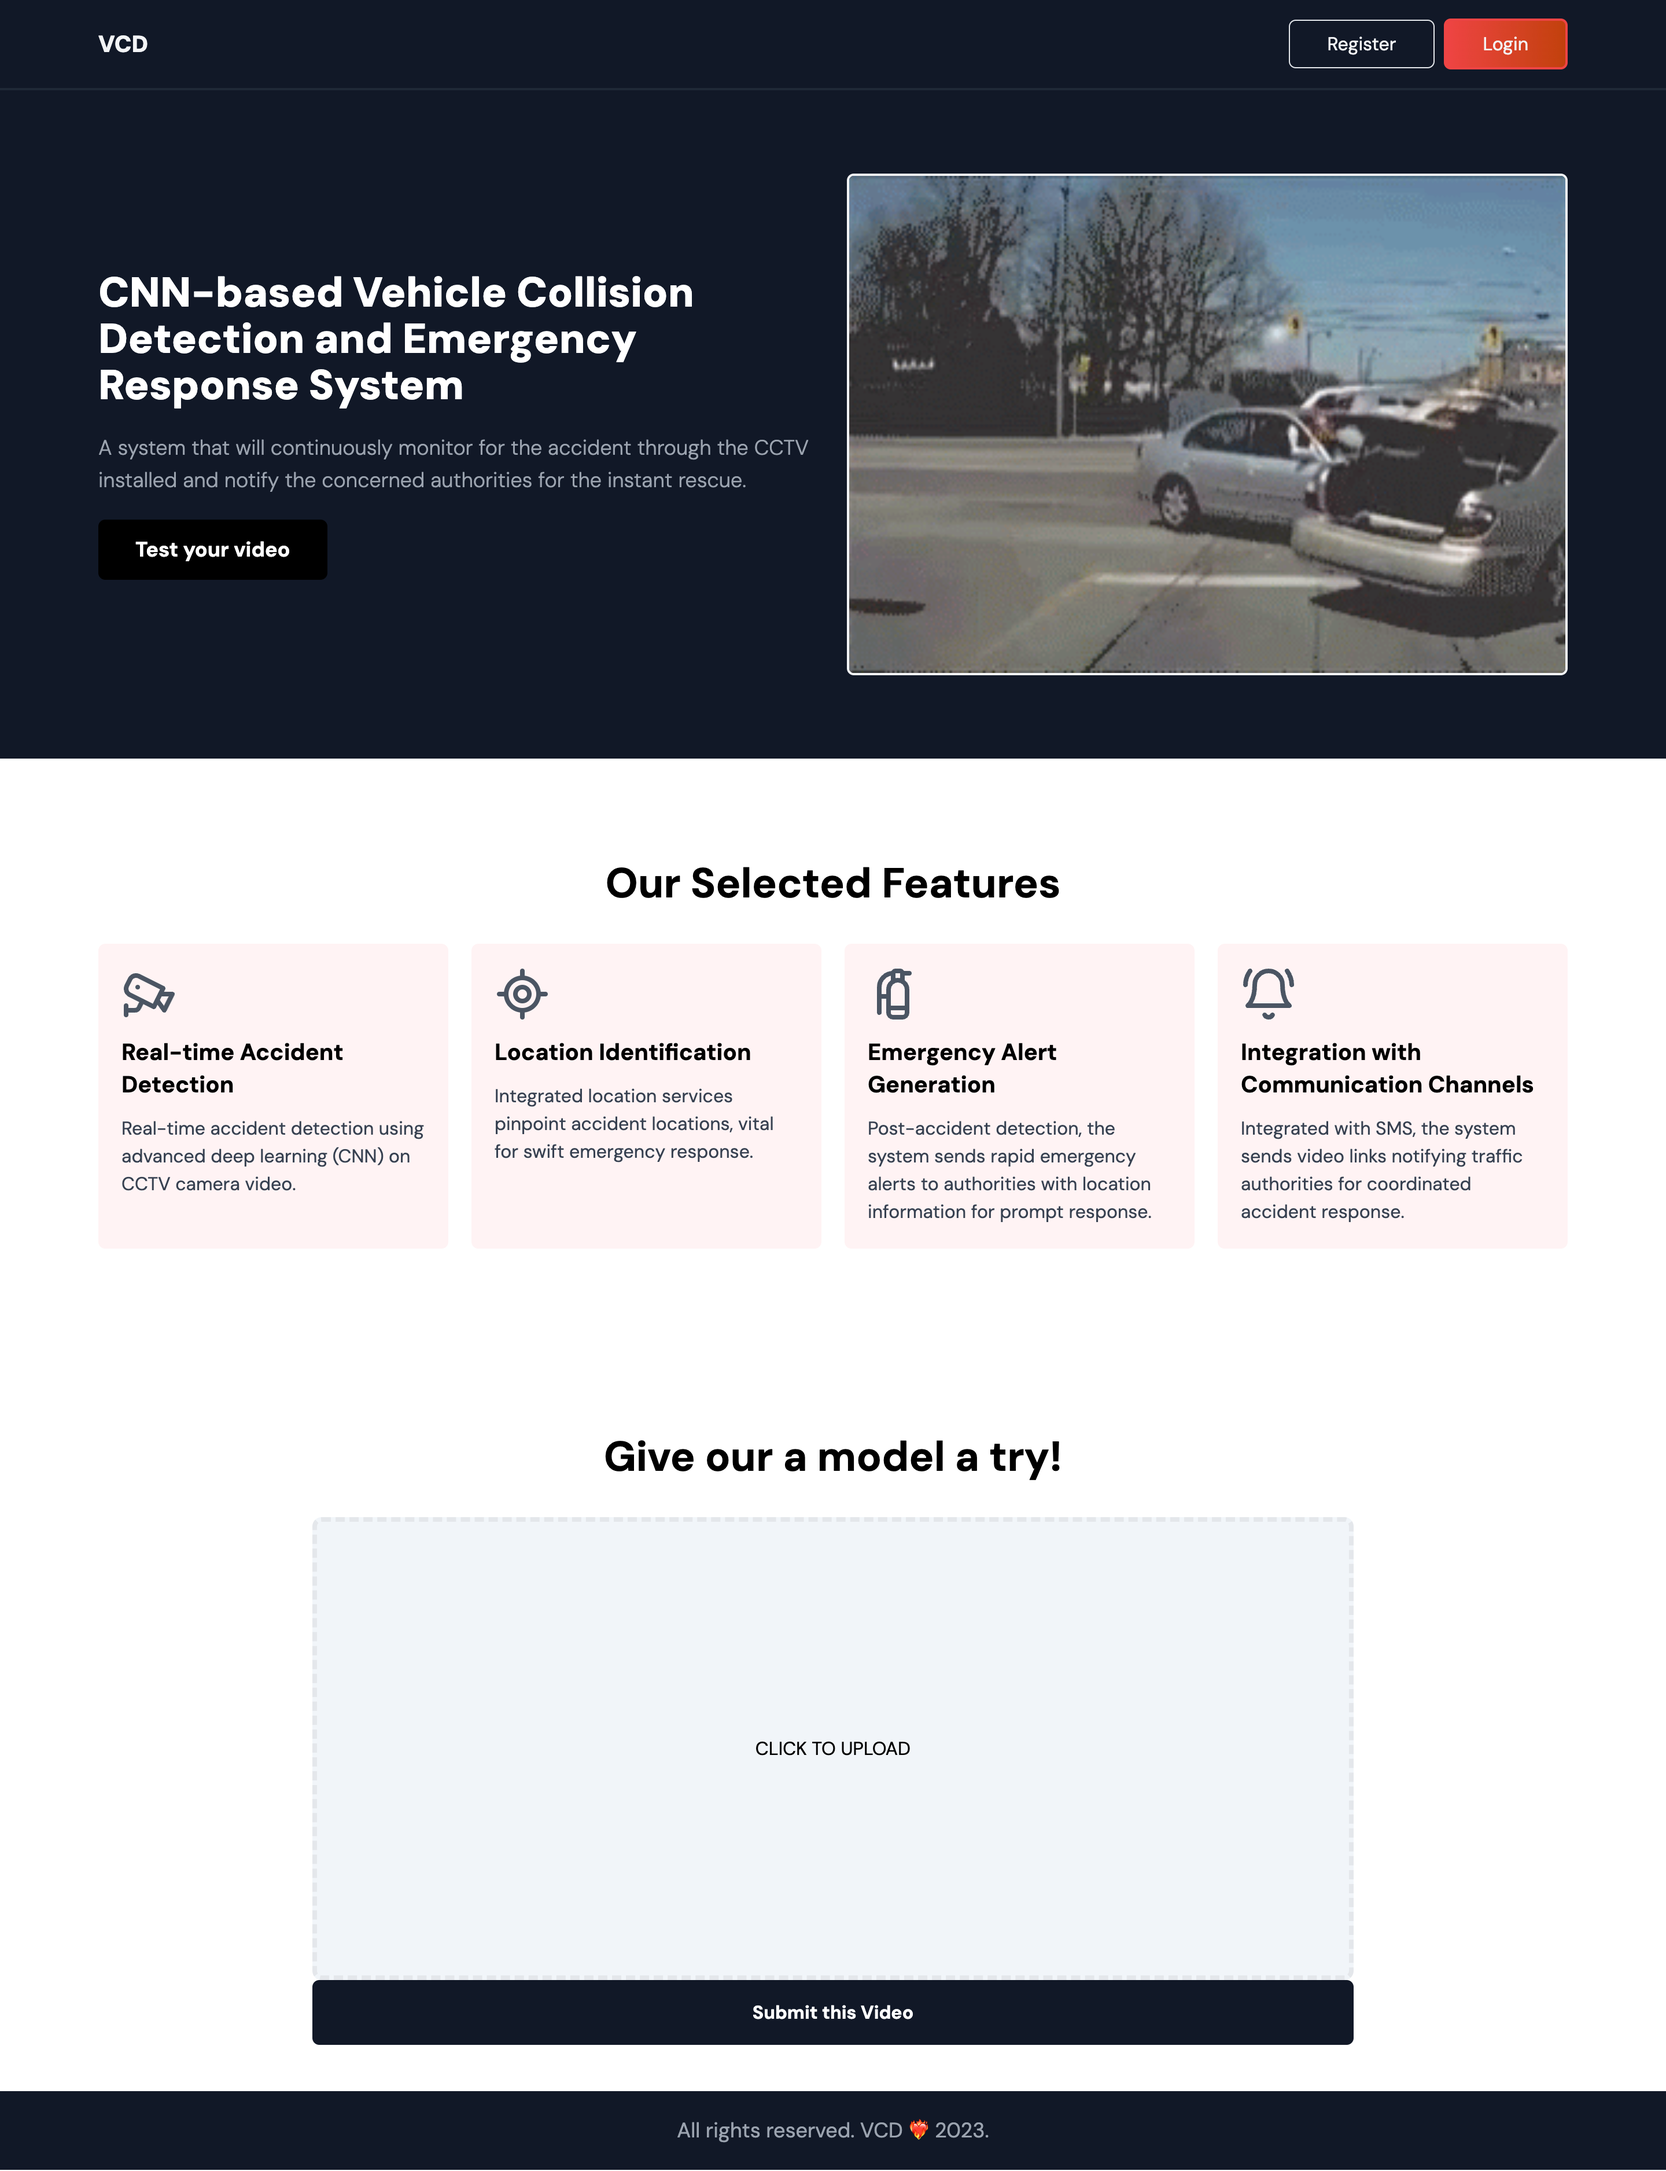
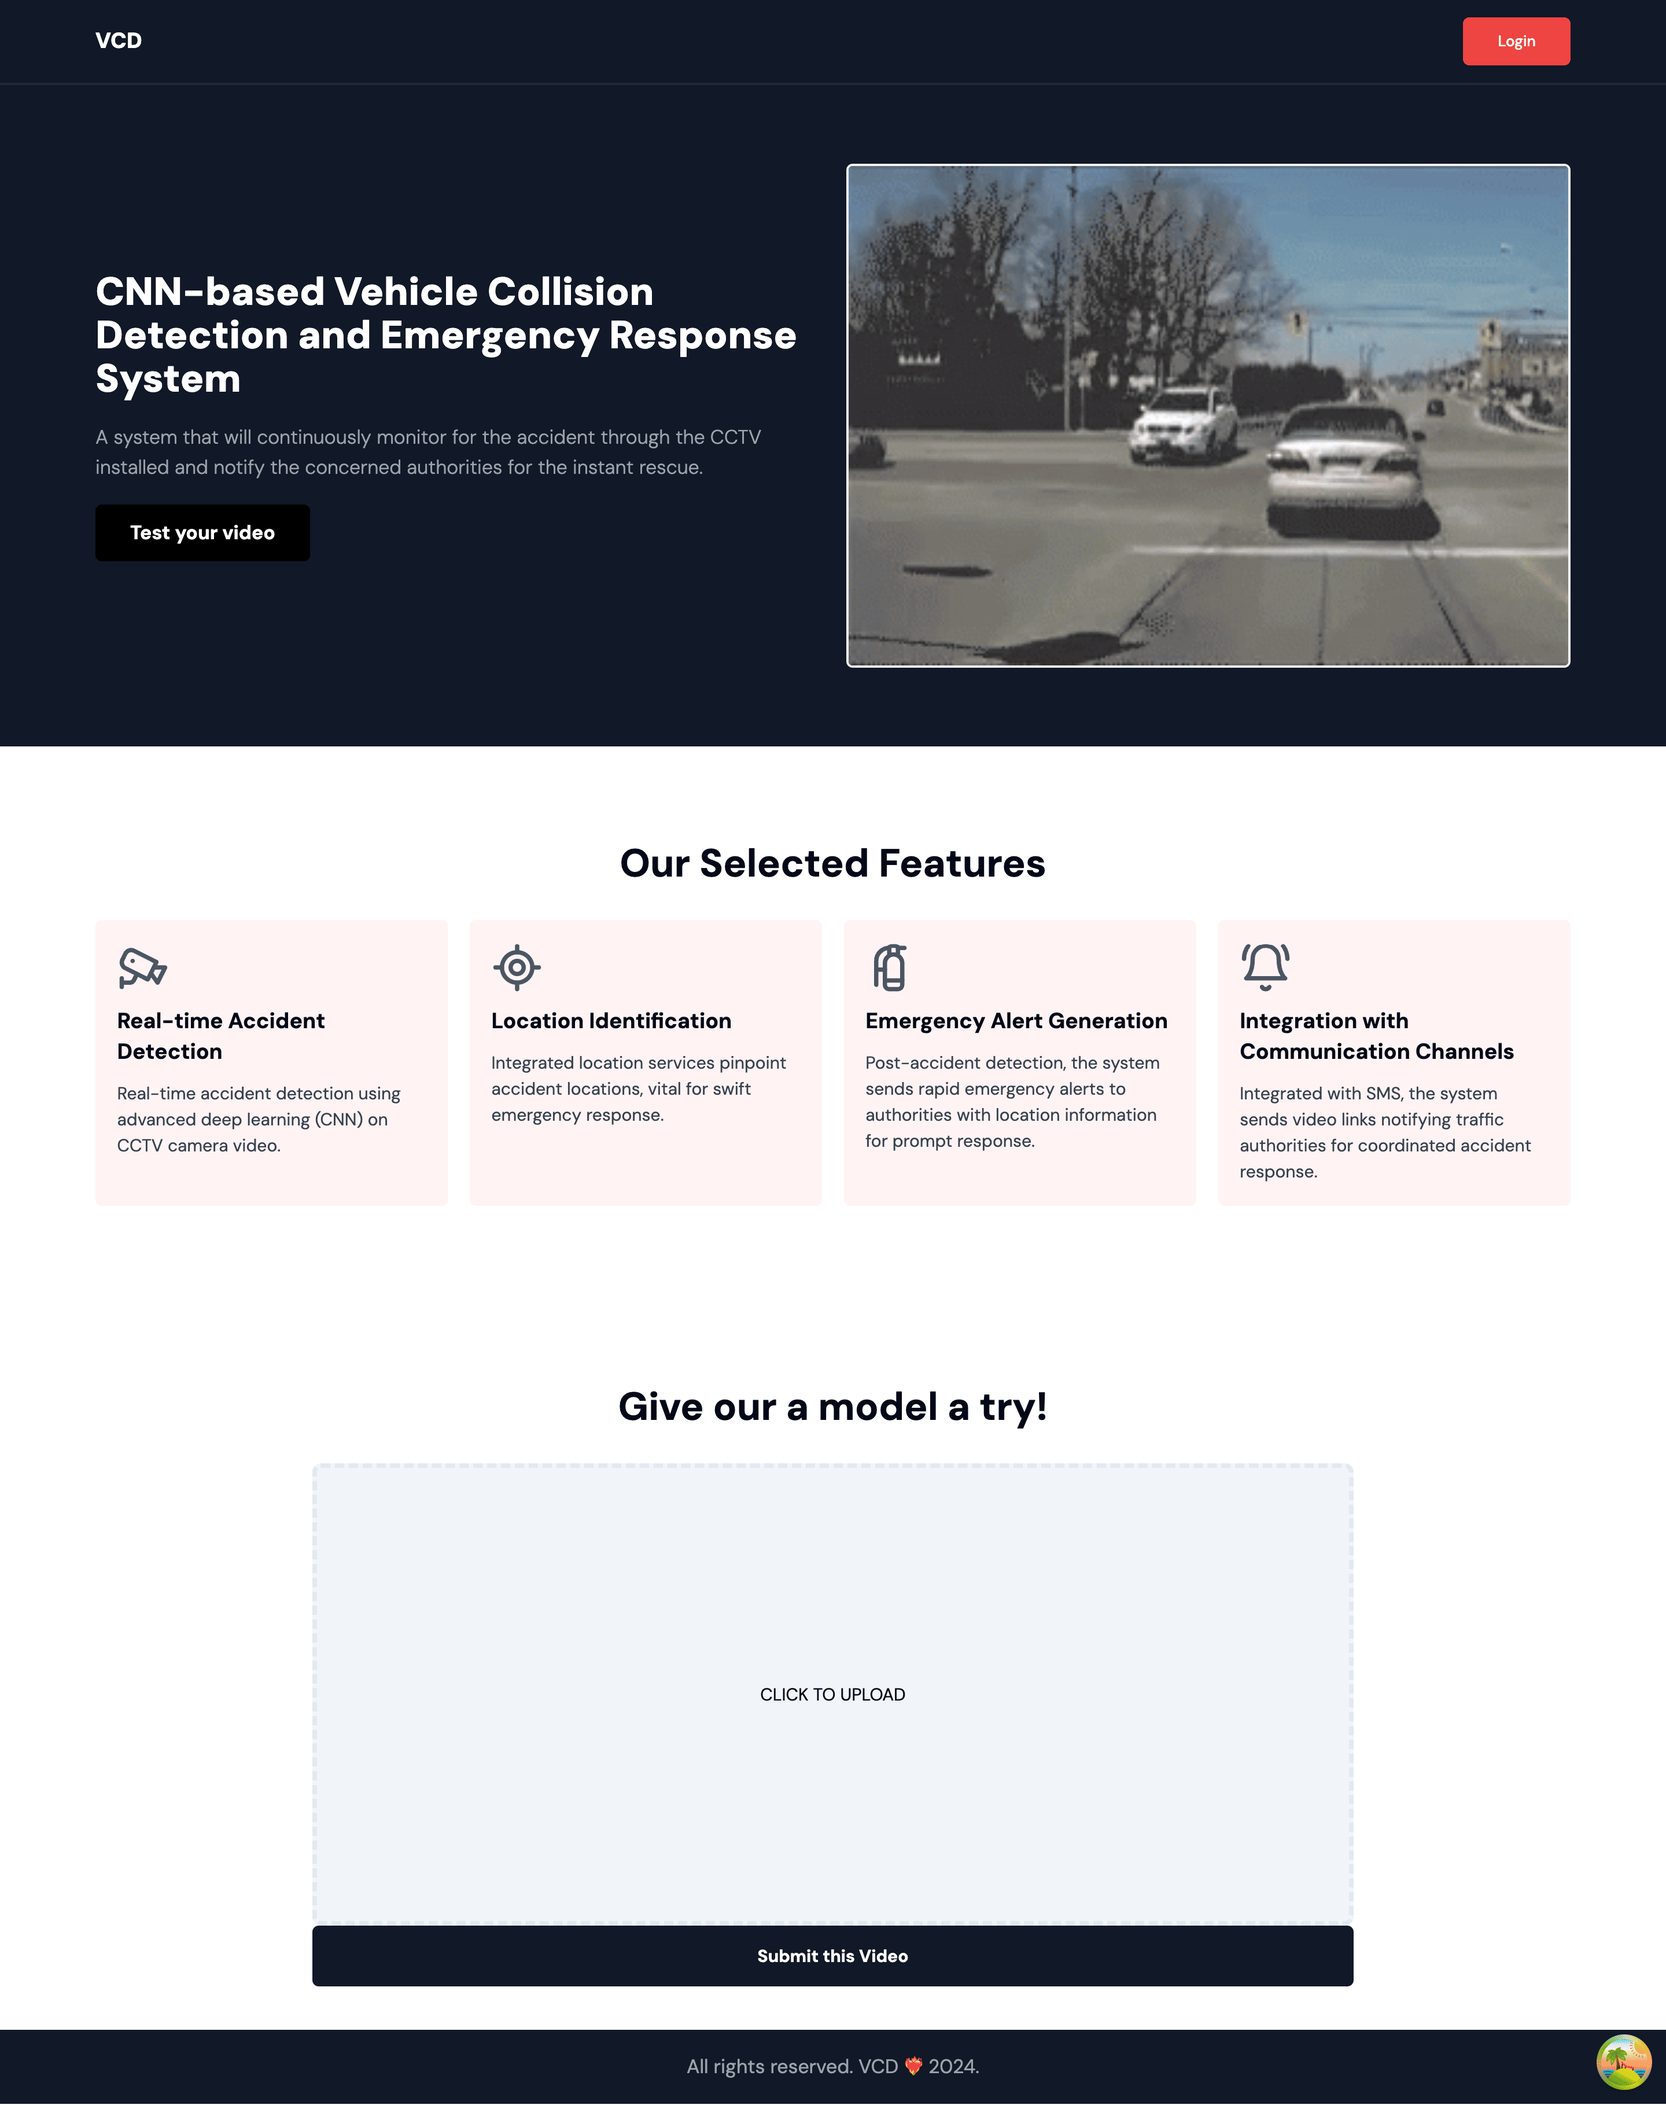
docs(readme): updated readme with the uis

diff --git a/README.md b/README.md
@@ -97,4 +97,7 @@ The frontend setup is quite easy, unlike backend setup as it does not require an
 
 ## UIS
 
+![Login](./uis/login.png)
 ![Homepage](./uis/homepage.png)
+![AllDatas](./uis/datas.png)
+![Single Datas](./uis/single-data.png)
